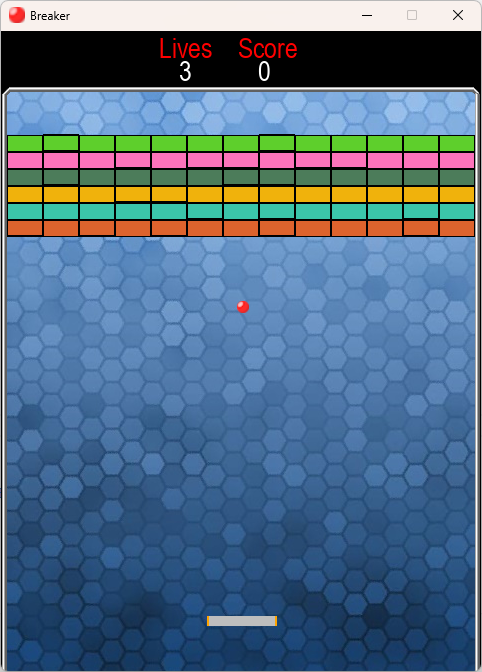
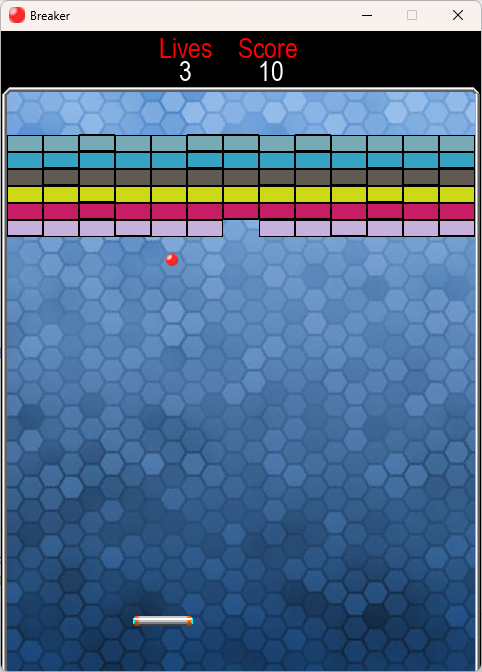
paddle image

diff --git a/main.py b/main.py
@@ -13,6 +13,7 @@ pygame.display.set_caption('Breaker')
 background_image = pygame.image.load('background.jpg')
 frame_image = pygame.image.load('frame.png')
 ball_image = pygame.image.load('ball.png')
+paddle_image = pygame.image.load('paddle.png')
 pygame.display.set_icon(ball_image)
 
 clock = pygame.time.Clock()
@@ -109,8 +110,7 @@ while running:
 
     # --- PLAYER/BALL DRAW ---
     screen.blit(ball_image, ball_pos)
-    pygame.draw.rect(screen, "orange", (player_pos.x, player_pos.y, 70, 10), 20)
-    pygame.draw.rect(screen, "grey", (player_pos.x+2, player_pos.y, 66, 10), 16)
+    screen.blit(paddle_image, player_pos)
 
     # --- BALL PHYSICS ---
     if ball_pos.centery >= HEIGHT: # dead
